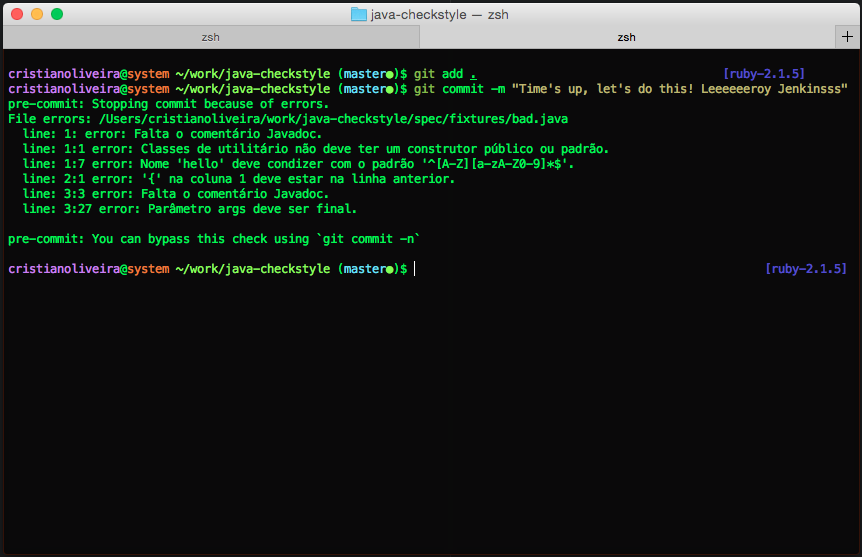
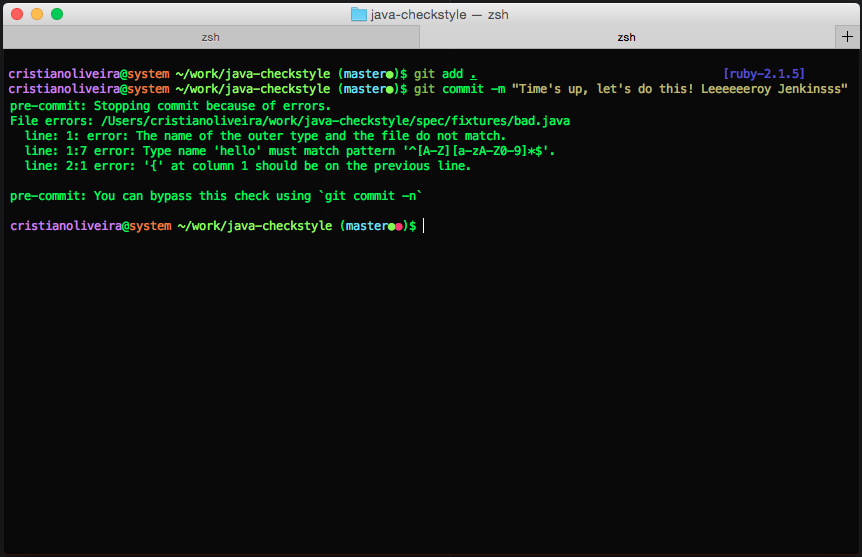
Fix #3: Demo in english

Changed region(s): [[0.0, 0.1831, 0.6937, 0.4883], [0.8747, 0.4578, 0.9954, 0.4883]]

diff --git a/lib/pre-commit/checkstyle/version.rb b/lib/pre-commit/checkstyle/version.rb
@@ -11,6 +11,6 @@ module PreCommit
   #  Cristian Oliveira
   #  Alex Rocha
   module Checkstyle
-    VERSION = '1.0.0'
+    VERSION = '1.0.1'
   end
 end
